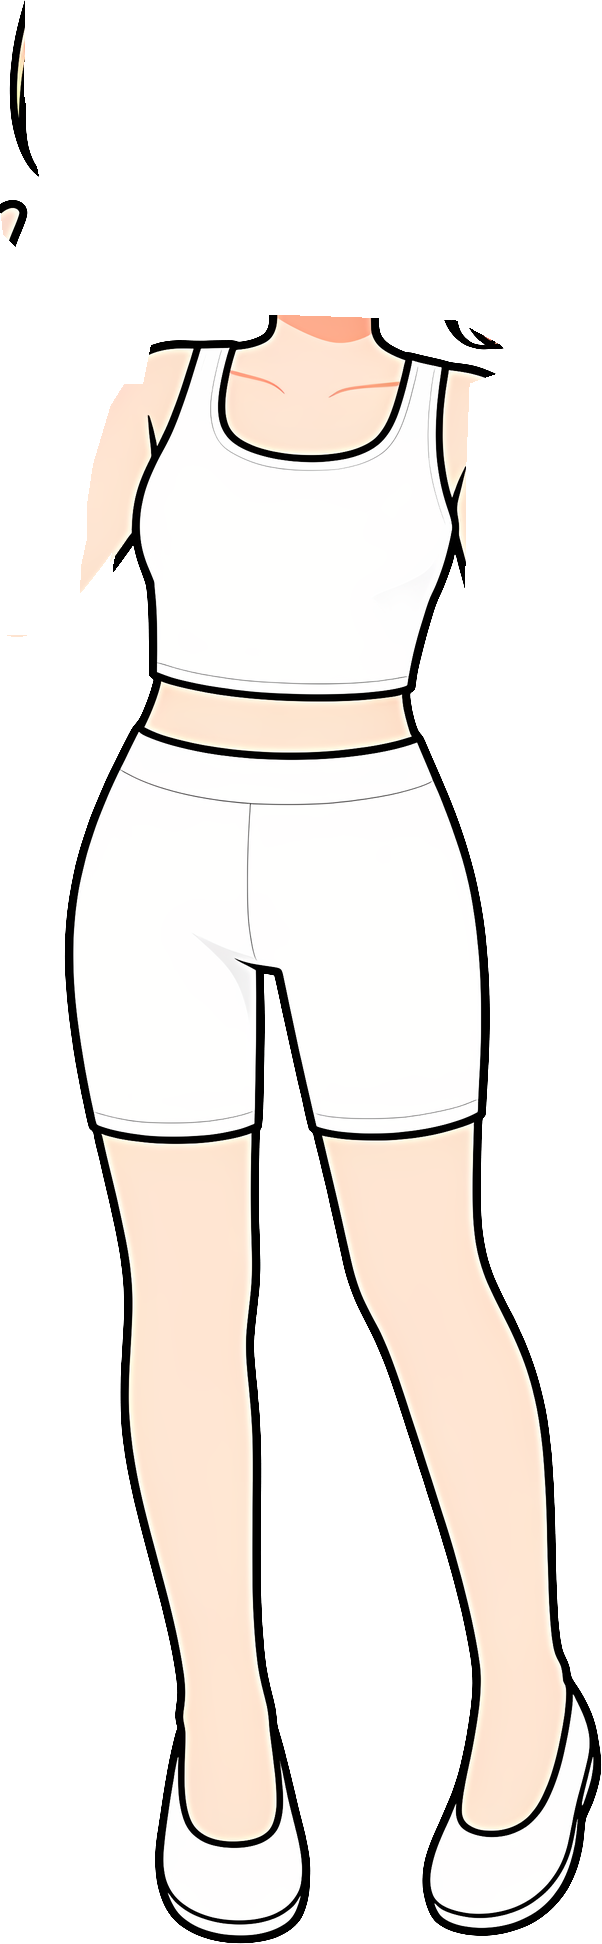
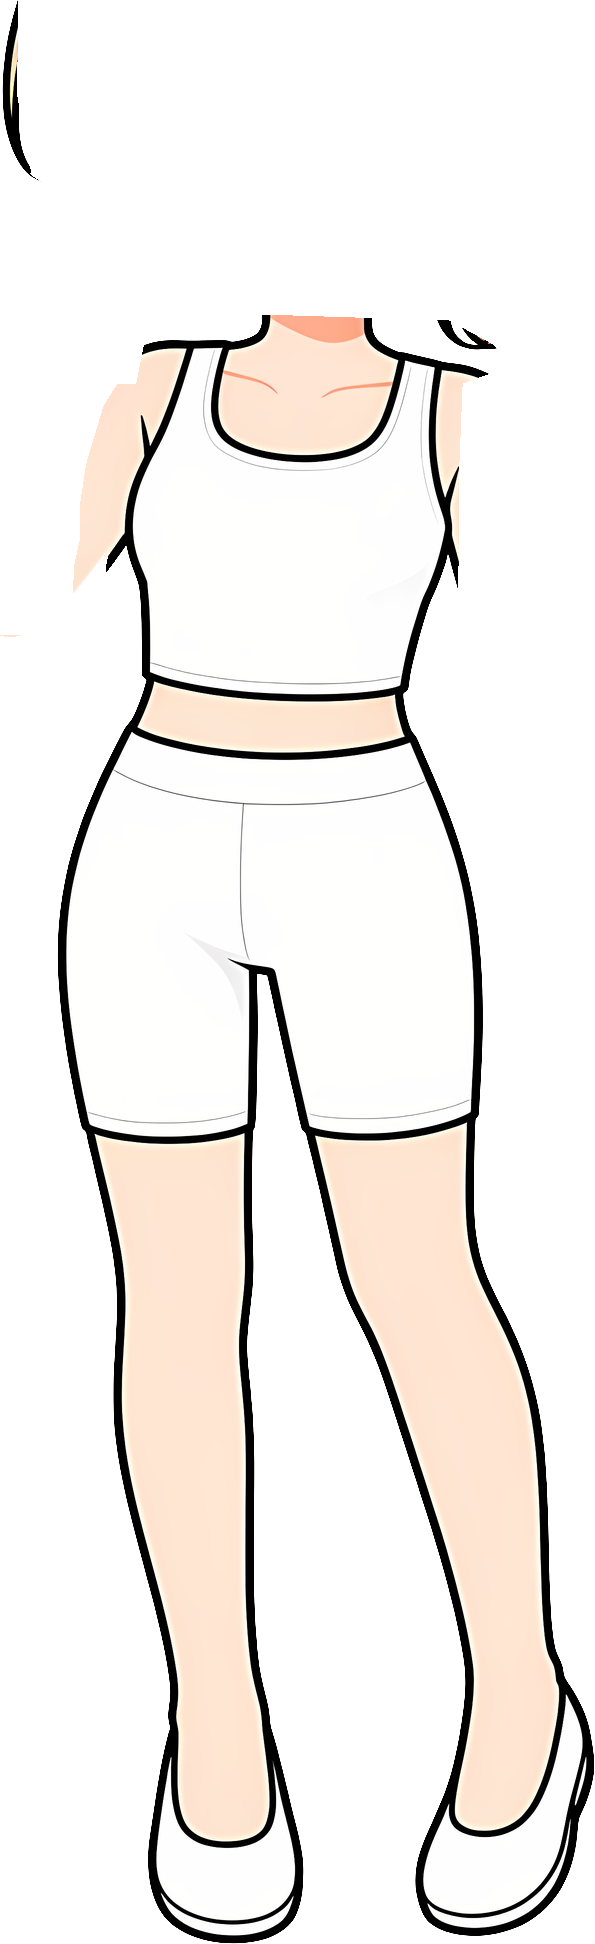
v4c-demo: 엄지 끝을 팔 레이어로(자름선 수정) — 4180 check_frames 640프레임 통과

diff --git a/public/v4c-demo/src/qa6/sheet6.py b/public/v4c-demo/src/qa6/sheet6.py
@@ -20,8 +20,9 @@ for o,l in O:
     f=zl.split()[1];im=Image.new('RGB',(1100,1600),(255,0,255));x=Image.open(f'{o}_{f}.png').convert('RGBA');im.paste(x,(0,0),x)
     rows.append((f'{l} · {zl} (400%)',im.crop(b).resize(((b[2]-b[0])*4,(b[3]-b[1])*4),Image.NEAREST)))
 W=sum(r[1].width for r in rows[:3])+60;hh=max(r[1].height for r in rows)
-Z4=Image.new('RGB',(W,(hh+40)*4),(255,255,255));d=ImageDraw.Draw(Z4)
+H4=ImageFont.truetype(fp,44)
+Z4=Image.new("RGB",(W,(hh+80)*4),(255,255,255));d=ImageDraw.Draw(Z4)
 for i in range(4):
   x=0
-  for t,im in rows[i*3:i*3+3]: d.text((x,i*(hh+40)),t,font=G,fill=0);Z4.paste(im,(x,i*(hh+40)+32));x+=im.width+30
+  for t,im in rows[i*3:i*3+3]: d.text((x,i*(hh+80)+4),t,font=H4,fill=0);Z4.paste(im,(x,i*(hh+80)+64));x+=im.width+30
 Z4.save('/workspace/ssb/public/v4c-demo/src/qa6/zoom400_sheet.png')

diff --git a/public/v4c-demo/src/build4.py b/public/v4c-demo/src/build4.py
@@ -16,7 +16,7 @@ e=(bd(rim,iterations=2)&~rim)&(rgb.max(2)<140);mm=rgb.min(2)[e]*0.6
 for c in range(3): rgb[...,c][e]=mm
 def poly(pts):
     m=Image.new('L',(W,H),0);ImageDraw.Draw(m).polygon([(x*S,y*S) for x,y in pts],fill=255);return np.asarray(m)>0
-armL=poly([(0,330),(190,330),(198,400),(262,440),(272,455),(268,475),(262,495),(256,515),(253,535),(253,552),(250,566),(248,620),(0,620)])
+armL=poly([(0,330),(190,330),(197,366),(214,378),(216,400),(262,440),(272,455),(268,475),(262,495),(256,515),(253,535),(253,552),(250,566),(248,620),(0,620)])
 armR=poly([(418,470),(440,462),(530,470),(720,470),(720,900),(560,900),(460,800),(412,650),(416,560),(416,520)])
 head=poly([(200,0),(720,0),(720,470),(530,470),(440,462),(418,450),(262,445),(205,385),(195,330)])&~armL
 rest=~(armL|armR|head);d14=bd(rest,iterations=14)

diff --git a/public/v4c-demo/src/progress.md b/public/v4c-demo/src/progress.md
@@ -72,3 +72,5 @@
 - 4782562 메시지의 "프레임 검사 통과"는 틀림: 당시 4180 check_frames 76프레임 이음새 실패(v4b·v4c 뼈대 모두 동일).
 - 원인1(68프레임): 원피스 치맛단 외곽선 안쪽 밝은 분홍 테(203,207) → dehalo(처리 값)로 옆 바탕색 치환 → 8프레임으로 감소.
 - 원인2(8프레임 wave 024/071~073, basic·none): 왼손 엄지 끝 주름선과 외곽선 사이 흰빛 피부 → dewhite(처리 값) 적용 중.
+- 원인2 실제: 왼손 엄지 끝이 armL/head 경계(190~198)에 걸려 3px 램프로 잘림 → armL 폴리곤에 (197,366),(214,378),(216,400) 추가해 엄지 전체를 팔 레이어로(머리카락 끝은 head 유지). dewhite는 효과 없음(남겨 둠, 무해).
+- 4180 check_frames(v4c 뼈대): 640프레임 pass, fails 0, max_seams 0.
